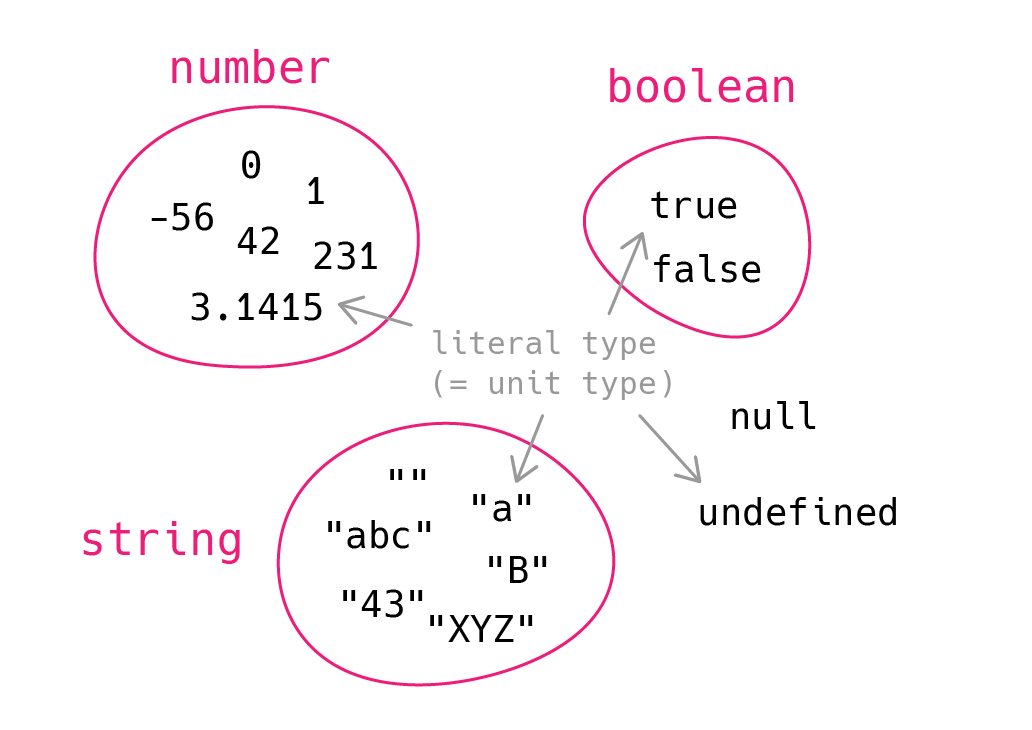
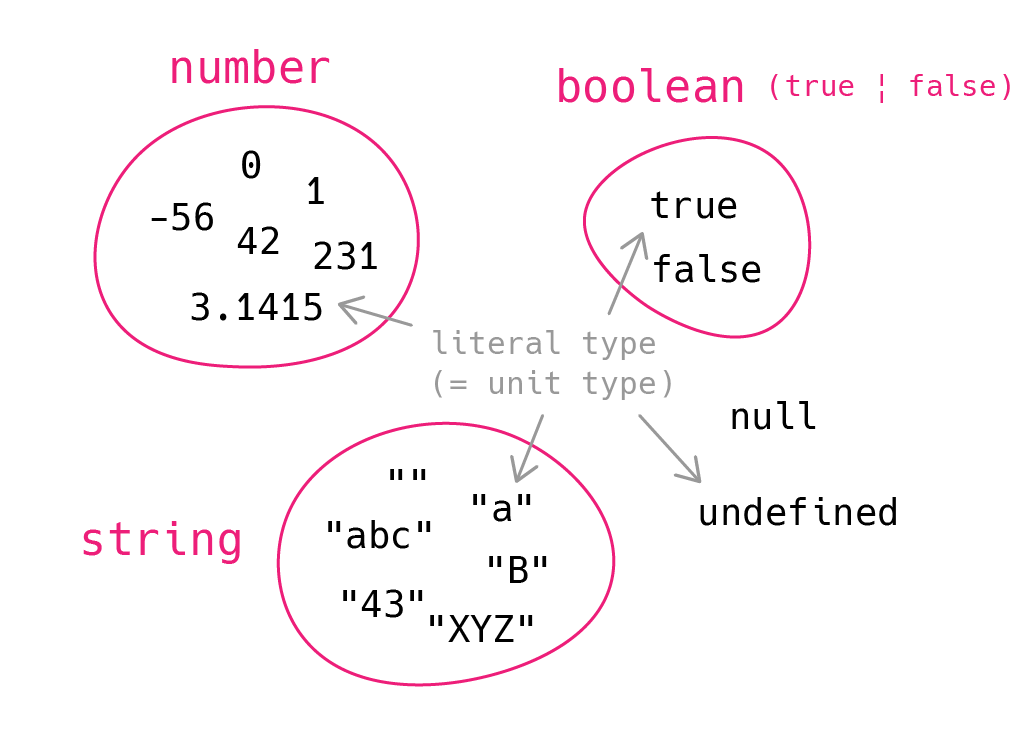
fix(article): 内容の修正
記事修正: タイポの修正
記事修正: 型互換性のルールについて追記
記事修正: 画像が更新できていなかったので修正

Changed region(s): [[0.5271, 0.0904, 0.8372, 0.1507], [0.8682, 0.0904, 0.9612, 0.1507]]

diff --git a/articles/typescript-type-set-hierarchy.md b/articles/typescript-type-set-hierarchy.md
@@ -22,7 +22,7 @@ aliases: [
 
 https://zenn.dev/estra/articles/typescript-widening
 
-Narrowing の解説に入る前に(Widening を深く理解するためにも)必要な知識や考え方がいくつかあると思ったので、今回は型の集合性と階層性について見ていきたいと思います(短いですが内容的に切り出しても興味深いので)。ただ、集合論や型理論については詳しくないので間違っているところがあるかもしれません(調べられた範囲で解説しています)。
+Narrowing の解説に入る前に(Widening を深く理解するためにも)必要な知識や考え方がいくつかあると思ったので、今回は型の集合性と階層性について見ていきたいと思います(短いですが内容的に切り出しても興味深いので)。ただ、集合論や圏論、型理論については詳しくないので間違っているところがあるかもしれません(調べられた範囲で解説しています)。
 
 # Collective type と Unit type
 
@@ -47,9 +47,9 @@ https://www.freecodecamp.org/news/typescript-literal-and-collective-types/
 >**A literal is a more concrete sub-type of a collective type**. What this means is that "Hello World" is a string, but a string is not "Hello World" inside the type system.
 >([TypeScript: Handbook - Literal Types](https://www.typescriptlang.org/docs/handbook/literal-types.html) より引用)
 
-リテラル型は集合型の具体的な **subtype(部分型、派生型、下位型)** である旨が記載されていますね。
+リテラル型は集合型の具体的な subtype である旨が記載されていますね。
 
-ちなみに subtype とは型の親子関係のようなもので、ある型の下位の型、つまり子の型として定義されたものを subtype と呼びます。suptype の派生元、つまり親の型となるものは **supertype(基本型、上位型)** と呼ばれます。オブジェクト指向における継承のようなものです。TypeScript で採用されているこういった型の仕組みを Subtyping と呼ばれるそうです。
+ちなみに **subtype(部分型、派生型、下位型)** とは型の親子関係のようなもので、ある型の下位の型、つまり子の型として定義されたものを subtype と呼びます。suptype の派生元、つまり親の型となるものは **supertype(基本型、上位型)** と呼ばれます。オブジェクト指向における継承のようなものです。TypeScript で採用されているこういった型の仕組みは Subtyping と呼ばれるそうです。
 
 https://ja.wikipedia.org/wiki/%E3%82%B5%E3%83%96%E3%82%BF%E3%82%A4%E3%83%94%E3%83%B3%E3%82%B0_(%E8%A8%88%E7%AE%97%E6%A9%9F%E7%A7%91%E5%AD%A6)
 
@@ -99,7 +99,9 @@ https://www.youtube.com/watch?v=hDACN-BGvI8&t=1592s
 
 ![集合の元](/images/typescript-widen-narrow/img_typeSet_1.png)
 
-ユニオン型によって型の和集合を作成できます。例えば `0 | 1 | true | "a"` のような数値リテラル型と真偽値リテラル型と文字列リテラル型によるユニオン型は以下のような集合を作成します。
+`string` や `number` は無限に要素があるから分かりにくいですが、 `boolean` 型は `true` と `false` というたった２つのリテラル型から構成されたユニオン型なので集合が非常に分かりやすいですね。
+
+`boolean` 型がそうであるように、ユニオン型によって型の和集合を作成できます。例えば `0 | 1 | true | "a"` のような数値リテラル型と真偽値リテラル型と文字列リテラル型によるユニオン型は以下のような集合を作成します。
 
 ![和集合](/images/typescript-widen-narrow/img_typeSet_2.png)
 
@@ -111,11 +113,13 @@ https://www.youtube.com/watch?v=hDACN-BGvI8&t=1592s
 
 ![全体集合](/images/typescript-widen-narrow/img_typeSet_4.png)
 
-和集合(Union type)と積集合(Intersection type)はオブジェクトの型で考えると分かりやすいです。分かりやすいベン図になります。
+和集合(Union type)と積集合(Intersection type)はオブジェクトの型で考えると分かりやすいです。以下のような分かりやすいベン図になります。
 
 ![オブジェクトの型](/images/typescript-widen-narrow/img_typeSet_5.png)
 
-`{ a: "st" }` という型と `{ b: 42 }` という型の和集合(Union type)と積集合(Intersection type)が上の図になるのは以下のコードで分かります。ユニオン型が和集合なのでそれぞれの集合を受け入れますが、インターセクション型は共通要素のみしか受け入れません。
+図にあるように、`{ a: "st" }` という型と `{ b: 42 }` という型について考えたとき、`{ a: "st" }` 型は `a` というプロパティの値の型が文字列リテラル型 `"st"` であるという条件を満たしたあらゆるオブジェクトの集合を表し、`{ b: 42 }` 型は `b` というプロパティの値の型が数値リテラル型 `42` であるという条件を満たしたあらゆるオブジェクトの集合を表します。
+
+そして、`{ a: "st" }` 型と `{ b: 42 }` 型の和集合(Union type)と積集合(Intersection type)が上の図のようになるのは実際にコードを書くことで分かります。ユニオン型が和集合なのでそれぞれの集合を受け入れますが、インターセクション型は共通要素のみしか受け入れません。
 
 ```ts
 type A = { a: "st" };
@@ -124,23 +128,24 @@ type B = { b: 42 };
 type Union = A | B;
 type Intersection = A & B;
 
-const vAandB: Intersection = { a: "st", b: 42 };
-const vOrB1: Union = { a: "st" };
-const vOrB2: Union = { b: 42 };
-const vOrB3: Union = { a: "st", b: 42 };
+const v_AandB: Intersection = { a: "st", b: 42 };
+const v_AOrB1: Union = { a: "st" };
+const v_AOrB2: Union = { b: 42 };
+const v_AOrB3: Union = { a: "st", b: 42 };
 ```
 
-ちなみに `{ a: "st" }` という型が `{ a: "st"; c: number }` など任意の他のプロパティを持つ型の集合であることは集合で考えれば分かりやすいのですが、実際にコードで書こうとするとエラーがでてそうではないのではないかと疑問に思ってしまうことがあります。
+ちなみに `{ a: "st" }` という型が `{ a: "st"; c: number }` など任意の他のプロパティを持つ型の集合であることは図で考えれば分かりやすいのですが、実際にコードで書こうとするとエラーがでてしまうので違うのではないかと疑問に思ってしまうことがあります。
 
 ```ts
 type A = { a: "st" };
 
+// A 型は a 以外のプロパティを持つオブジェクトを受け入れない?
 const vA: A = { a: "st", c: "anything" };
 //                       ^^^^^^^^^^^^^: [Error]
 // Object literal may only specify known properties, and 'c' does not exist in type 'A'.
 ```
 
-実はこれは型システムにおける違反検知の型チェックエラーではなくて、**余剰プロパティチェック(execc property cehecks)** という別のエラーです。TypeScript の型システム的には問題なくても、エラーとして検知してくれるものです。型システム上は問題ないので、別の変数を経由させることでエラーとならなくなります。
+実はこれは型システムにおける違反検知の型チェックエラーではなくて、**余剰プロパティチェック(excess property cehecks)** という別のエラーです。TypeScript の型システム的には問題なくても、エラーとして検知してくれるものです。型システム上は問題ないので、別の変数を経由させることでエラーとならなくなります。
 
 ```ts
 type A = { a: "st" };
@@ -149,19 +154,19 @@ const obj = { a: "st" as const, c: "anything" };
 const vA: A = obj; // エラーとならないで受け入れられる
 ```
 
-ということで、`{ a: "st" }` という型は `{ a: "st"; c: number; d: string }` など `a: "st"` 以外の任意のプロパティを持つオブジェクトの型の集合であることが分かります。
+ということで、`{ a: "st" }` という型は `{ a: "st"; c: number; d: string }` など `a: "st"` 以外の任意のプロパティを持つオブジェクトの型の集合であることが分かります。実際にこれが可能なのは、TypeScript が [Structural Type System(構造的部分型)](https://www.typescriptlang.org/docs/handbook/typescript-in-5-minutes.html#structural-type-system) というシステムを採用しているからです。
 
-余剰プロパティチェックについては uhyo さんの以下の記事で非常に分かりやす解説されていたので参考にしてください。ユニオン型が OR 演算によることものであることについても解説されています。
+余剰プロパティチェックについては uhyo さんの以下の記事で非常に分かりやすく解説されていたので参考にしてください。ユニオン型が OR 演算によって生成されるということについても解説されています。
 
 https://qiita.com/uhyo/items/b1f806531895cb2e7d9a
 
 # 型の階層性
 
-subtype や supertype という関係から分かる通り、型には親と子の関係があり、階層性があります。すべての型の最上位となる親の型は TypeScript では `unknown` 型であり、[型理論(Type theory)](https://en.wikipedia.org/wiki/Type_theory)ではこのような型を **Top type** と呼ぶそうです。
+subtype や supertype という関係から分かる通り、型には親と子の関係があり、階層性があります。すべての型の最上位となる親の型は TypeScript では `unknown` 型であり、[型理論(Type theory)](https://en.wikipedia.org/wiki/Type_theory)ではこのような型を **Top type(トップ型)** と呼ぶそうです。
 
 https://en.wikipedia.org/wiki/Top_type
 
-逆に最下位となる型は TypeScript では `never` 型であり、型理論ではこのような型を **Bottom type(ボトム型、ゼロ型、空型)** と呼ぶそうです。
+逆に最下位となる型は TypeScript では `never` 型であり、型理論ではこのような型を **Bottom type(ボトム型)** と呼ぶそうです。
 
 https://en.wikipedia.org/wiki/Bottom_type
 
@@ -173,14 +178,12 @@ https://en.wikipedia.org/wiki/Bottom_type
 
 ![全体集合](/images/typescript-widen-narrow/img_typeSet_4.png)
 
-それぞれの型は部分集合であり、ユニオン型(`A | B`)は `A ∪ B` という和集合で、インターセクション型(`A & B`)は `A ∩ B` という積集合としてみなせます。
-
-![積集合と和集合](/images/typescript-widen-narrow/img_typeSet_3.png)
+それぞれの型は `unknown` 型という全体集合の部分集合です。
 
 参考文献
 https://blog.logrocket.com/when-to-use-never-and-unknown-in-typescript-5e4d6c5799ad/
 
-そして、subtype と supertype の関係を辿ると以下のような型の階層図(Type hierarchy)もできあがります。ただし、以下の図は mermaid で記述したものですが、全貌図としては完全に正確ではないかもしれないので注意してください(複数の文献を参考にして作成してますが、TypeScript のバージョン更新によって古い階層図と変わっているところなどもあるので)。また、`enum` などの型は JS に存在しない TS の独自機能なので意図的に排除しています。
+そして、subtype と supertype の関係を辿ると以下のような型の階層図(Type hierarchy)もできあがります。ただし、以下の図は mermaid で記述したものですが、全貌図としては正確ではないと思うので注意してください(複数の文献を参考にして作成してますが、TypeScript のバージョン更新によって古い階層図と変わっているところなどもあるので、大体はこんな感じという程度です)。また、`enum` などの型は JS に存在しない TS の独自機能なので意図的に排除しており、Promise 型や Iterable 型などの型も省略しています(それらの型は `object` 型傘下の subtype です)。
 
 ```mermaid
 graph LR
@@ -232,12 +235,14 @@ graph LR
   obj --> ReadonlyArray --> Array & RT[readonly Tuple] --> Tuple --> N
 ```
 
-左が supertype で、右が suptype の方向となります。そして subtype の型の変数は supertype の型の変数へ代入可能です。
+左が supertype で、右が suptype の方向となります。一番左に位置している `unknwon` 型がすべての型の supertype であり Top type です。逆に一番右に位置している `never` 型がすべての型の subtype であり Bottom type です。
+
+そして subtype の型の変数は supertype の型の変数へ代入可能です。
 
 >スーパータイプは、そのサブタイプの数々によって代替/代入可能とされており、これは代入可能性（substitutability）と呼ばれる。そのスーパータイプとサブタイプの関係は、[is-a](https://ja.wikipedia.org/wiki/Is-a)とも言われる。記号 `<:` を用いて `subtype <: supertype` と表記される。
 >([サブタイピング (計算機科学) - Wikipedia](https://ja.wikipedia.org/wiki/%E3%82%B5%E3%83%96%E3%82%BF%E3%82%A4%E3%83%94%E3%83%B3%E3%82%B0_(%E8%A8%88%E7%AE%97%E6%A9%9F%E7%A7%91%E5%AD%A6)?oldformat=true) より引用)
 
-そして、Widening(型の拡大) が起きる方向は子から親、つまり subtype → supertype の方向であり、代入可能となるのも subtype → supertype の方向で、その逆は型エラーとなります。
+Widening(型の拡大) が起きる方向は子から親、つまり subtype → supertype の方向であり、代入可能となるのも subtype → supertype の方向で、その逆は型エラーとなります。
 
 ```ts
 const literal = "text" as const;
@@ -255,27 +260,38 @@ an = Obj;
 unk = an;
 ```
 
-この図と Handbook の『[Type Compatibility](https://www.typescriptlang.org/docs/handbook/type-compatibility.html#any-unknown-object-void-undefined-null-and-never-assignability)』の図を見比べると subtype → supertype で代入可能である一方で、supertype → subtype で代入できないとういうのが上の階層図と一致しているので納得できます(`any` 型は例外)。
+この図と Handbook の『[Type Compatibility](https://www.typescriptlang.org/docs/handbook/type-compatibility.html#any-unknown-object-void-undefined-null-and-never-assignability)』の図を見比べると subtype → supertype で代入可能である一方で、supertype → subtype で代入できないというのが上の階層図と一致しているので納得できます(`any` 型は例外)。
 
 ![型の互換性](/images/typescript-widen-narrow/img_ts_type_compatibility.png)*[Type Compatibility](https://www.typescriptlang.org/docs/handbook/type-compatibility.html#any-unknown-object-void-undefined-null-and-never-assignability) より引用*
 
-型の互換性(compatibility)と呼ばれるルールによって代入可能であることや subtype の関係性が定められていますが、代入可能であること subtype であることは近似していますが、微妙に異なるということが Handbook の以下の箇所に記載されています。
+代入可能であることや subtype の関係性は型の互換性(compatibility)として定められています。代入可能であることと subtype であることは近似していますが、微妙に異なるということが Handbook の以下の箇所に記載されています。
 
 >So far, we’ve used “compatible”, which is not a term defined in the language spec. In TypeScript, **there are two kinds of compatibility: subtype and assignment**. These differ only in that **assignment extends subtype compatibility with rules to allow assignment to and from any**, and to and from enum with corresponding numeric values.
 >([TypeScript: Documentation - Type Compatibility](https://www.typescriptlang.org/docs/handbook/type-compatibility.html#subtype-vs-assignment) より引用、太字は筆者強調)
 
 subytype 互換性を拡張したものが代入(assignment)可能性であり、具体的には、`any` 型から様々な型に代入できることと `any` 型に様々な型を代入できるというルールが追加されていることが記載されていますね(`enum` についての言及は無視しています)。
 
-実際、`any` 型は型チェックを放棄するので、例外的にすべての型に代入可能であり、自身の subtype である型にも代入できます(上の代入可能であるかの図でもそうなっていますね)。ただし Bottom type である `never` 型には `never` 型以外は何も代入できなので `any` 型でも代入することはできません。
+:::message
+他にも Handbook には次のようなルールが記載されていますが、上のような階層図で考えれば細かいルールを覚えなくても理解できます。
+
+- すべての型は自身の型へ代入可能
+- `any` 型と `unknown` 型はそれら自身への代入可能な型は同じだが、`unknown` 型は `any` 型の除いて他の型へ代入することはできない
+- `unknown` 型と `never` 型はお互いに逆の関係性となっており、`unknown` 型にはあらゆる型が代入可能であり `any` 型を除くあらゆる型に代入できない一方、`never` 型にはあらゆる型が代入できず、あらゆる型に代入可能である
+- `void` 型は `any` 型や `unknown` 型、`never` 型、`null` 型を除くあらゆる型が・に代入できない
+- `strictNullChecks` を無効化すると、`null` 型と `undefined` 型は `never` 型に近似して、大抵の型に代入可能、大抵の型が代入不可能となり、お互いに代入可能となる
+- `strictNullChecks` を有効化すると、`null` 型は `void` 型のように振る舞い、`any` 型や `unknown` 型、`never` 型そして `void` 型を除くすべての型が・に代入できない(`undefined` 型は常に `void` 型)へ代入できる。
+:::
+
+実際、`any` 型は型チェックを放棄するので、例外的にすべての型に代入可能であり、自身の subtype である型にも代入できます(上の代入可能であるかの図でもそうなっていますね)。ただし Bottom type である `never` 型には `never` 型以外は何も代入できないので `any` 型でも代入することはできません。
 
 ```ts
 // any 型は型チェックしなくなるので assignable の概念もなくなってすべての型の変数に代入できてしまう
 const numAsAny = 42 as any;
-let und: undefined = numAsAny;
-let str: string = numAsAny;
 
+const und: undefined = numAsAny;
+const str: string = numAsAny;
 // ただし Bottom type である never 型には代入できない
-let nev: never = numAsAny; // [Error]
+const nev: never = numAsAny; // [Error]
 // Type 'any' is not assignable to type 'never'
 ```
 
@@ -283,17 +299,31 @@ let nev: never = numAsAny; // [Error]
 
 ```ts
 // 通常 never 型は値を持たないはずだが、型アサーションで never 型にできて、never 型に代入できる
-let nev: never = 1 as never;
+const nev: never = 1 as never;
 
-// never 型は bottom type なのでどんな型にも代入できる
-let str: string = nev;
-let strArray: string[] = nev;
-let strLiteral: "text" = nev; // リテラル型にも代入可能
-let an: any = nev;
-let nev2: never = nev; // never 型自身に代入できる
+// never 型はどんな型にも代入できる
+const str: string = nev;
+const strArray: string[] = nev;
+const strLiteral: "text" = nev; // リテラル型にも代入可能
+const an: any = nev;
+const nev2: never = nev; // never 型(自身)に代入可能
 ```
 
+ちなみに関数の返り値がないことを表現する `void` 型ですが、`return` 文を持たない関数の返り値の型は自動で `void` 型であると型推論されます。そういった関数から返り値を得ようとして返ってくるのは `undefined` という値です。この２つも supertype と subtype の関係です(階層図を参照)。`void` 型が supertype で、`undefined` 型が subtype なので、`void` 型に `undefined` 型は代入可能です(逆はできない)。
+
+```ts
+const u: undefined = undefined;
+const v: void = u;
+```
+
+ただ、Handbook の『[TypeScript for Functional Programmers](https://www.typescriptlang.org/docs/handbook/typescript-in-5-minutes-func.html#other-important-typescript-types)』の項目では `void` 型の説明が "a subtype of `undefined` intended for use as a return type." となっているのですが、古い仕様書を見ると `void` 型は `undefined` 型の supertype として明記してあるのでこれは公式ドキュメントのミスだと思われます。たぶんミスだろうということでプルリクエストを作成しました(バージョン更新によって supertype が subtype になるような仕様変更は流石にないと思います)。
+
+https://github.com/microsoft/TypeScript-Website/pull/2470
+
 参考文献
-https://knmts.com/as-a-engineer-52/
-https://qiita.com/dico_leque/items/06ac5837b7a333c5c8da
-https://gist.github.com/laughinghan/31e02b3f3b79a4b1d58138beff1a2a89
+- [TypeScriptのコンパイルプロセス / 型の階層構造 - knmts.com](https://knmts.com/as-a-engineer-52/)
+- [TypeScriptの型メモ - Qiita](https://qiita.com/dico_leque/items/06ac5837b7a333c5c8da)
+- [Diagram of every possible TypeScript type](https://gist.github.com/laughinghan/31e02b3f3b79a4b1d58138beff1a2a89)
+- [2章 型と関数の圏 · Scala で始める圏論入門](https://criceta.com/category-theory-with-scala/02_Types_and_functions.html)
+- [集合としての型 · An Introduction to Elm](https://guide.elm-lang.jp/appendix/types_as_sets.html)
+
